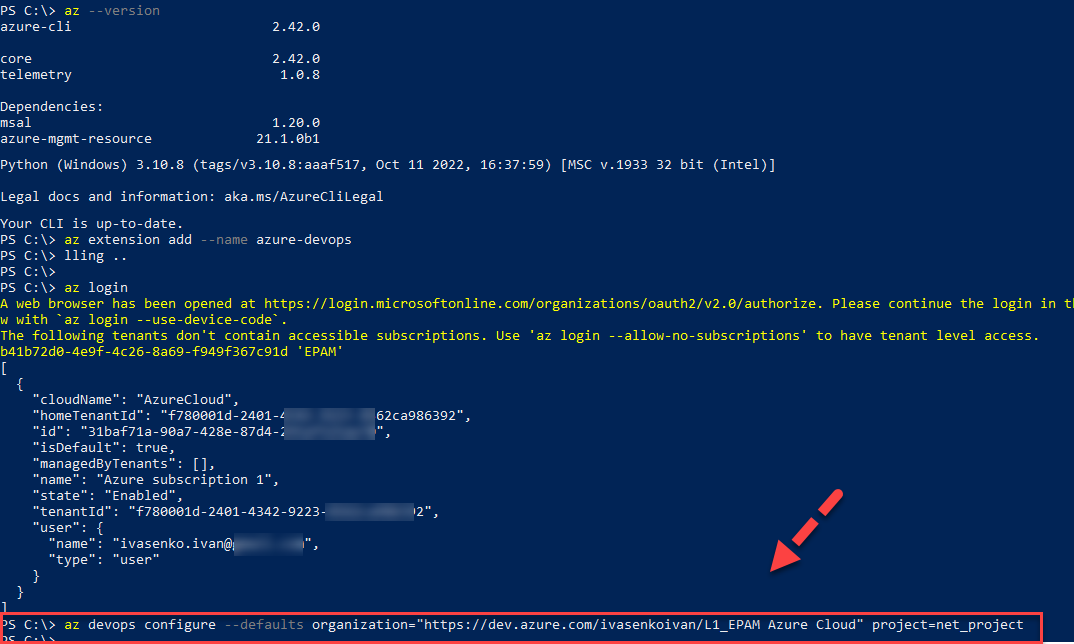
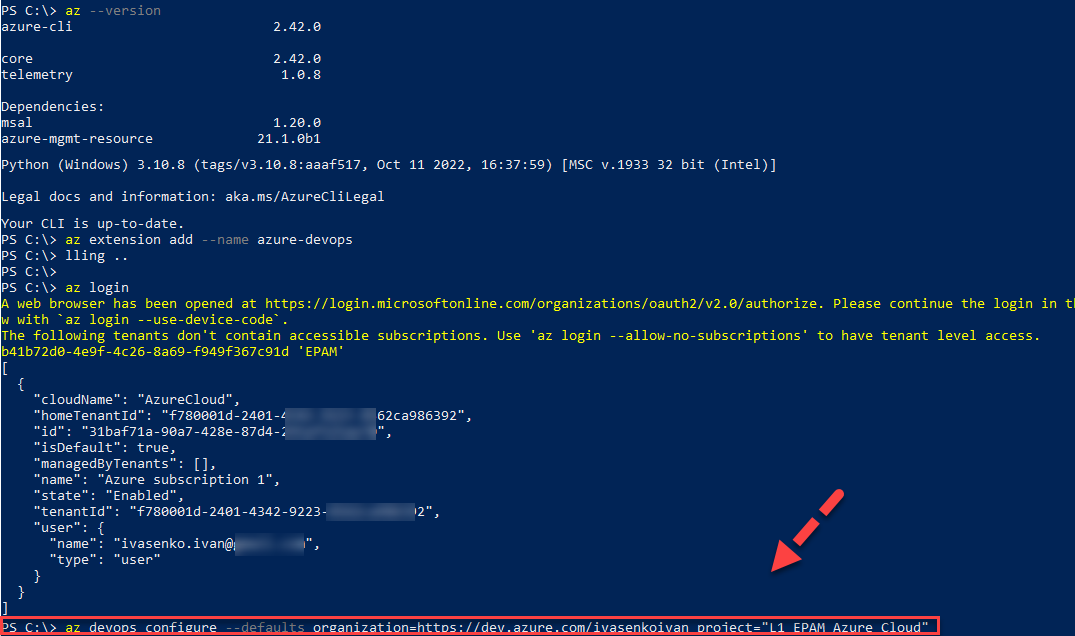
P1_A3.1.

diff --git a/5. Azure Cloud/README.md b/5. Azure Cloud/README.md
@@ -37,7 +37,7 @@ __3.1. Download and install Azure CLI and add Azure DevOps extension__
 -  Run the `az login` command.
     If the CLI can open your default browser, it will do so and load a sign-in page. Otherwise, you need to open a browser page and follow the instructions on the command line to enter an authorization code after navigating to <https://aka.ms/devicelogin> in your browser. For more information, see the [Azure CLI login page](https://learn.microsoft.com/en-us/cli/azure/authenticate-azure-cli?preserve-view=true&view=azure-cli-latest).
 -  For seamless commanding, set the organization and project as defaults in configuration.
-    `az devops configure --defaults organization="https://dev.azure.com/ivasenkoivan/L1_EPAM Azure Cloud" project=net_project`
+    `az devops configure --defaults organization=https://dev.azure.com/ivasenkoivan project="L1_EPAM Azure Cloud"`
 
 ---
 4. Create an Azure DevOps repo -  https://learn.microsoft.com/en-us/azure/devops/repos/git/create-new-repo?view=azure-devops 
